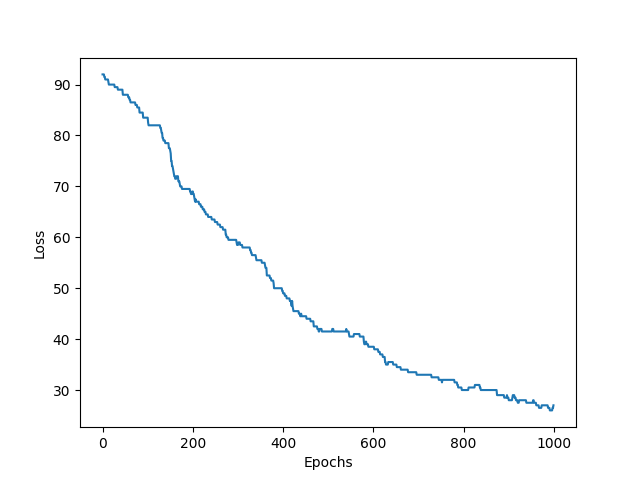
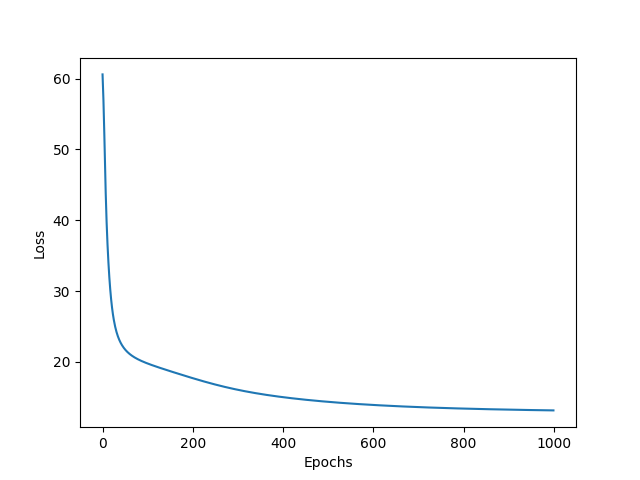
Multi-layer perceptron finished.(initially)

diff --git a/Lab07-1/Perceptron.py b/Lab07-1/Perceptron.py
@@ -20,6 +20,76 @@ class Perceptron:
     def predict(self, X):
         return np.where(np.dot(X, self.weights) + self.bias > 0, 1, 0)
 
+class MultiPerceptron:
+    def __init__(self, input_size: int, hidden_size: int, output_size: int):
+        rnp = np.random.default_rng()
+        self.weights_1 = rnp.standard_normal((input_size, hidden_size))
+        self.bias_1 = rnp.standard_normal((1, hidden_size))
+        self.weights_2 = rnp.standard_normal((hidden_size, output_size))
+        self.bias_2 = rnp.standard_normal((1, output_size))
+        self.losses = []
+
+    def fitting(self, X, y, epochs=1000, learning_rate=0.01):
+        w1 = np.vstack((self.weights_1, self.bias_1))
+        w2 = np.vstack((self.weights_2, self.bias_2))
+        bias = np.ones((X.shape[0], 1))
+
+        for _ in range(epochs):
+            hidden_input = np.dot(np.column_stack((X, bias)), w1)
+            hidden_output = self.sigmoid(hidden_input)
+            outer_input = np.dot(np.column_stack((hidden_output, bias)), w2)
+            output = self.sigmoid(outer_input)
+
+            self.losses.append(0.5*(np.sum(np.power((output - y), 2))))
+
+            # backward pass (output layer)
+            # delta(E_total) /  delta(output_o)
+            gradient_cal1 = (output - y)  # data_size x output_layer_size
+            # delta(output_o) / delta(net_o)
+            gradient_cal2 = self.sigmoid_derivative(output)  # data_size x output_layer_size
+            # delta(net_o) / delta(w2)
+            gradient_cal3 = np.column_stack((hidden_output, bias))  # data_size x (hidden_layer_size + 1)
+            # delta(E_total) / delta(w2)
+            gradient_cal4 = np.dot(gradient_cal3.T, gradient_cal1 * gradient_cal2)
+            # (hidden_layer_size + 1) x output_layer_size
+            # update w2
+            weights2_update = gradient_cal4 * learning_rate
+            w2 -= weights2_update
+
+            # backward pass (hidden layer)
+            # delta(E_total) / delta(output_h)
+            gradient_cal5 = np.dot(gradient_cal1 * gradient_cal2, w2[:-1].T)  # data_size x hidden_layer_size
+            # delta(output_h) / delta(net_h)
+            gradient_cal6 = self.sigmoid_derivative(hidden_output)  # data_size x hidden_layer_size
+            # delta(net_h) / delta(w1)
+            gradient_cal7 = np.column_stack((X, bias))  # data_size x (input_size + 1)
+            # delta(E_total) / delta(w1)
+            gradient_cal8 = np.dot(gradient_cal7.T, gradient_cal5 * gradient_cal6)
+            # (input_size + 1) x hidden_layer_size
+            # update w1
+            weights1_update = gradient_cal8 * learning_rate
+            w1 -= weights1_update
+
+            self.weights_1 = w1[:-1]
+            self.weights_2 = w2[:-1]
+            self.bias_1 = w1[-1]
+            self.bias_2 = w2[-1]
+
+    def predict(self, X):
+        hidden_input = np.dot(X, self.weights_1) + self.bias_1
+        hidden_output = self.sigmoid(hidden_input)
+        outer_input = np.dot(hidden_output, self.weights_2) + self.bias_2
+        output = self.sigmoid(outer_input)
+        return output
+
+    def sigmoid(self, x):
+        return 1 / (1 + np.exp(-x))
+
+    def sigmoid_derivative(self, x):
+        return x * (1 - x)
+
+
+
 
 if __name__ == "__main__":
     with open("data.csv", "r") as f:
@@ -37,16 +107,22 @@ if __name__ == "__main__":
 
     X, y = data[:, :-1], data[:, -1]
     y = y.reshape(-1, 1)
-    model = Perceptron(X.shape[1], 1)
-    model.fitting(X, y)
+
+    # model = Perceptron(X.shape[1], 1)
+    # model.fitting(X, y)
+
+    multi_model = MultiPerceptron(X.shape[1], 4, 1)
+    multi_model.fitting(X, y, epochs=1000, learning_rate=0.01)
 
     X_test = np.column_stack((age_test, estimated_salary_test))
     y_test = np.expand_dims(purchased_test, axis=1)
-    _y = model.predict(X_test)
+    # _y = model.predict(X_test)
+    _y = multi_model.predict(X_test)
 
     count_correct = 0
     for i in range(len(_y)):
-        if _y[i] == y_test[i]:
+        # if _y[i] == y_test[i]:
+        if _y[i] > 0.5 and y_test[i] == 1 or _y[i] <= 0.5 and y_test[i] == 0:
             print(f'\033[92mPrediction: {_y[i][0]:.2f}, Actual: {y_test[i][0]}\033[0m')
             count_correct += 1
         else:
@@ -66,13 +142,15 @@ if __name__ == "__main__":
     x = np.linspace(-3, 3, 100)
     y = np.linspace(-3, 3, 100)
     X, Y = np.meshgrid(x, y)
-    Z = model.predict(np.column_stack((X.ravel(), Y.ravel()))).reshape(X.shape)
+    # Z = model.predict(np.column_stack((X.ravel(), Y.ravel()))).reshape(X.shape)
+    Z = multi_model.predict(np.column_stack((X.ravel(), Y.ravel()))).reshape(X.shape)
     plt.contourf(X, Y, Z, levels=1, alpha=0.5)
     plt.savefig('data/img/perceptron_prediction.png')
 
     plt.clf()
 
-    plt.plot(model.losses)
+    # plt.plot(model.losses)
+    plt.plot(multi_model.losses)
     plt.xlabel('Epochs')
     plt.ylabel('Loss')
     plt.savefig('data/img/perceptron_loss.png')
